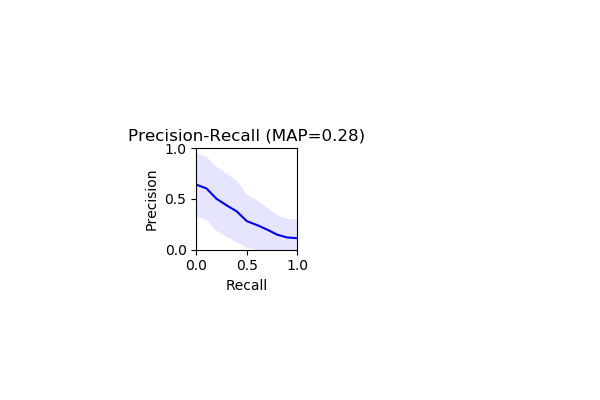
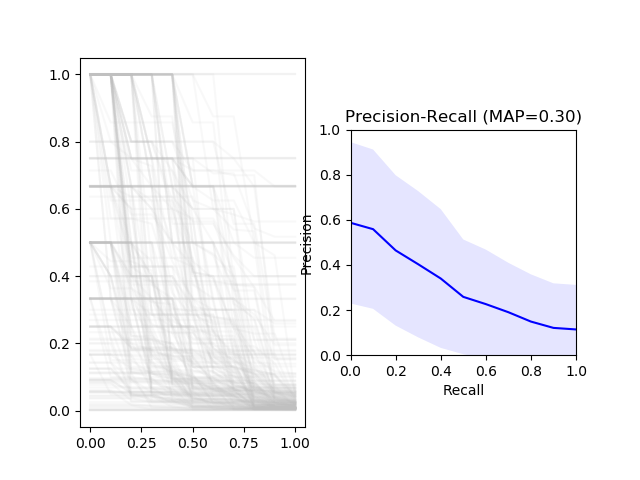
AP Percentage computed; probable incorrect MAP solved

diff --git a/Mini-Project/computation.py b/Mini-Project/computation.py
@@ -38,6 +38,7 @@ class computation:
         i = 1
         self.map_model = 0
         self.precision_model = []
+        self.ap_below = 0
 
         plt.subplot(1, 2, 1)
         for query in cranfield.queries:
@@ -52,22 +53,23 @@ class computation:
                 print('qid =', i, ' AP=', average_precision)
                 print('query: \n', query)
                 print()
-            else:
-                self.map_model = self.map_model + average_precision
-                self.precision_model.append(precision)
-                plt.plot(self.recall, precision, color='silver', alpha=0.1)
+                self.ap_below = self.ap_below + average_precision
+            
+            self.map_model = self.map_model + average_precision
+            self.precision_model.append(precision)
+            plt.plot(self.recall, precision, color='silver', alpha=0.1)
 
             i = i + 1
 
         self.map_model = self.map_model / cranfield.num_queries
+        self.ap_below = (self.ap_below / cranfield.num_queries) * 100
 
     def prec_rec_plot(self):
-        print('MAP =', self.map_model)
 
         mean_precision = np.mean(self.precision_model, axis=0)
         std_precision = np.std(self.precision_model, axis=0)
 
-        plt.subplot(1, 4, 2)
+        plt.subplot(1, 2, 2)
         plt.plot(self.recall, mean_precision, color='b', alpha=1)
         plt.gca().set_aspect('equal', adjustable='box')
         plt.fill_between(self.recall,
@@ -79,4 +81,8 @@ class computation:
         plt.ylim([0.0, 1.0])
         plt.xlim([0.0, 1.0])
         plt.title('Precision-Recall (MAP={0:0.2f})'.format(self.map_model))
+
+        print('MAP =', self.map_model)
+        print('Percentage of AP inferior to 0.05 = ', self.ap_below)
+
         plt.savefig('results/prec-recall.png', dpi=100)
